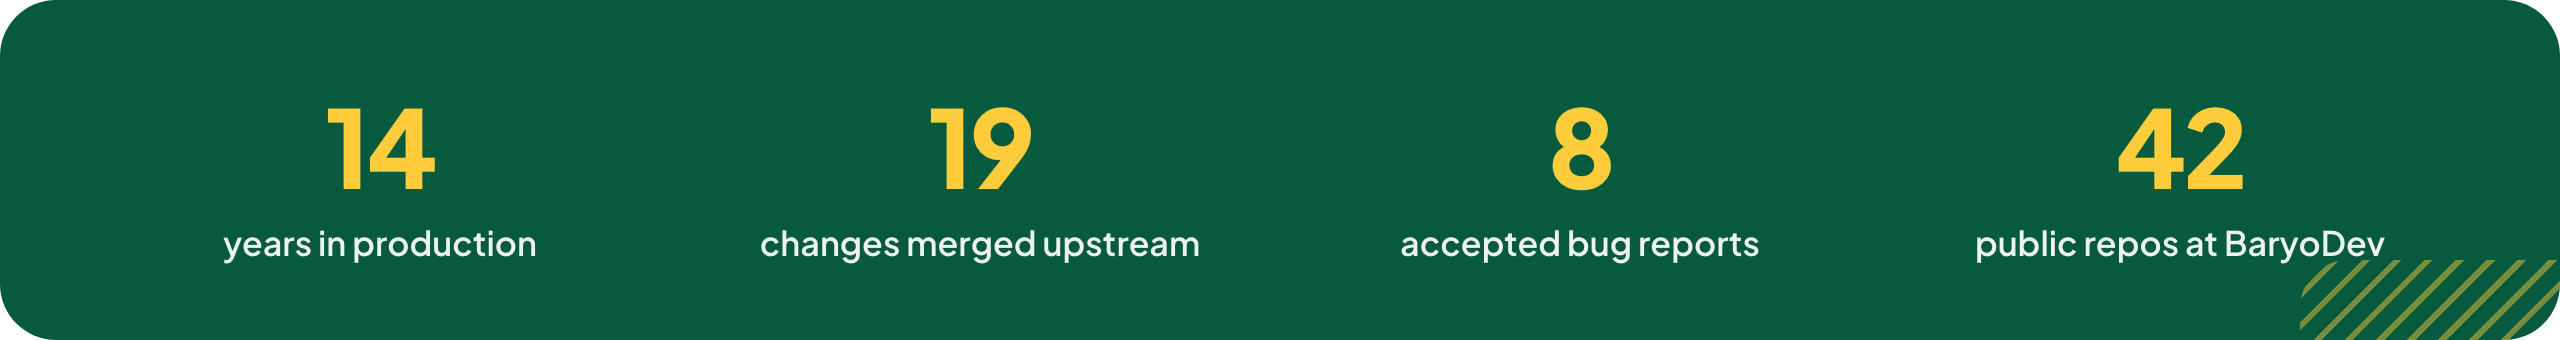
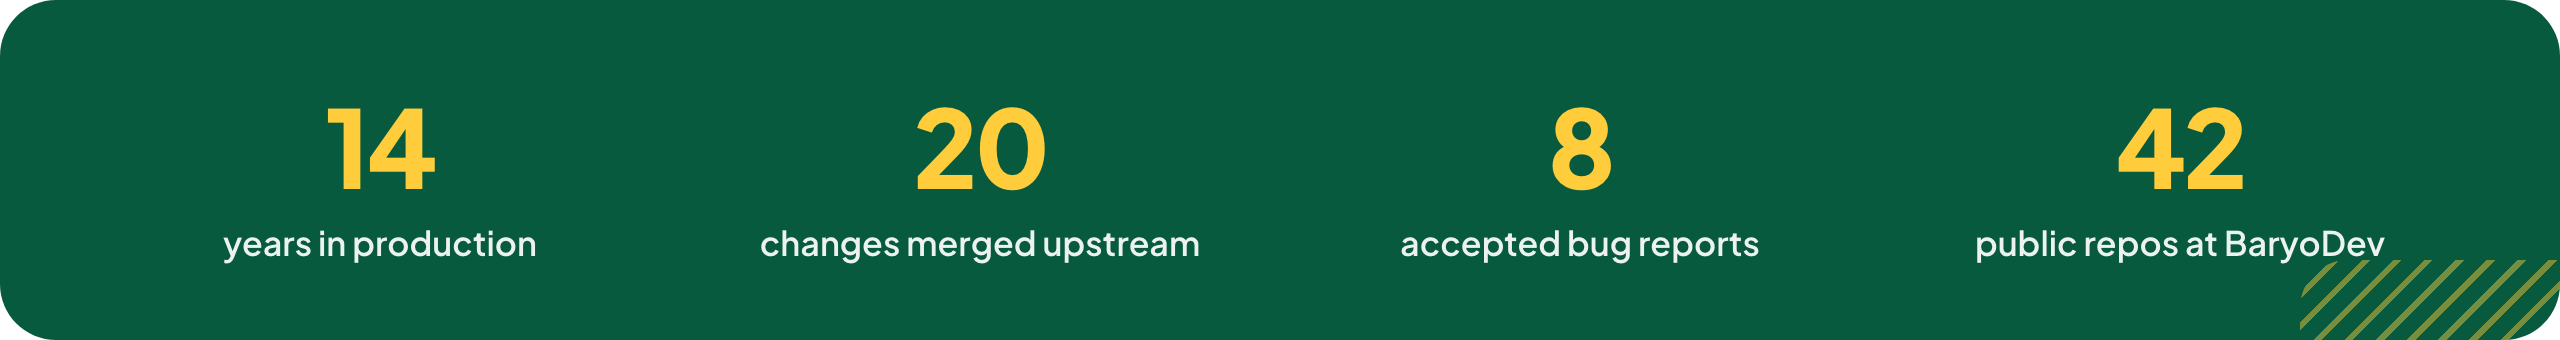
add testcontainers #1816, bump upstream count to 20

Changed region(s): [[0.3438, 0.3235, 0.4062, 0.5588]]

diff --git a/art/build.py b/art/build.py
@@ -52,7 +52,7 @@ SECTION = """
   </div>
 </div>"""
 
-STATS = [("14", "years in production"), ("19", "changes merged upstream"),
+STATS = [("14", "years in production"), ("20", "changes merged upstream"),
          ("8", "accepted bug reports"), ("42", "public repos at BaryoDev")]
 
 STATS_HTML = """

diff --git a/README.md b/README.md
@@ -21,7 +21,7 @@
   <a href="#stack">Stack</a>
 </sub></p>
 
-<img alt="14 years in production, 19 changes merged upstream, 8 accepted bug reports, 42 public repos at BaryoDev" src="assets/stats.png" width="100%">
+<img alt="14 years in production, 20 changes merged upstream, 8 accepted bug reports, 42 public repos at BaryoDev" src="assets/stats.png" width="100%">
 
 ---
 
@@ -32,7 +32,7 @@ In 30 seconds:
 - **I design platforms.** [barakoCMS](https://github.com/BaryoDev/barakoCMS) is a multi-tenant, metadata-driven data platform on .NET and PostgreSQL, with its console, renderer, client and deploy tool, all public and all running.
 - **I ship LLM and agent systems** that respect permissions and get checked by something other than a person's say-so.
 - **I audit web applications** against OWASP WSTG and ASVS and hand back a report ranked by what to fix first.
-- **Nineteen changes merged upstream** in Umbraco, Marten and Testcontainers, nearly all for a bug my own projects hit.
+- **Twenty changes merged upstream** in Umbraco, Marten and Testcontainers, nearly all for a bug my own projects hit.
 
 <a id="the-platform-i-design-and-run"></a>
 <img alt="The platform I design and run" src="assets/section-platform.png" width="100%">
@@ -86,16 +86,16 @@ Broken access control and IDOR (an id from the URL used to load or mutate anothe
 <a id="open-source-contributor"></a>
 <img alt="Open source contributor" src="assets/section-upstream.png" width="100%">
 
-<a href="https://github.com/search?q=author%3Aarnelirobles+type%3Apr+is%3Amerged+org%3Aumbraco+org%3Atestcontainers+org%3AJasperFx&type=pullrequests"><img alt="19 merged upstream" src="https://img.shields.io/badge/upstream-19%20merged-0b7a55?style=flat-square&logo=github"></a>
+<a href="https://github.com/search?q=author%3Aarnelirobles+type%3Apr+is%3Amerged+org%3Aumbraco+org%3Atestcontainers+org%3AJasperFx&type=pullrequests"><img alt="20 merged upstream" src="https://img.shields.io/badge/upstream-20%20merged-0b7a55?style=flat-square&logo=github"></a>
 <a href="https://github.com/search?q=author%3Aarnelirobles+type%3Aissue+org%3Aumbraco+org%3Atestcontainers+org%3AJasperFx&type=issues"><img alt="8 accepted bug reports" src="https://img.shields.io/badge/bug%20reports%20accepted-8-f08a24?style=flat-square&logo=github"></a>
 <a href="https://github.com/BaryoDev"><img alt="42 public repositories" src="https://img.shields.io/badge/%40BaryoDev-42%20public%20repos-c2461a?style=flat-square&logo=github"></a>
 
-**Nineteen merged changes and eight accepted bug reports** in libraries I run in production, across four repos totalling 13k stars. Most started from a bug I hit in my own projects rather than from browsing a tracker for something to fix. The badges are live searches, so they answer for themselves.
+**Twenty merged changes and eight accepted bug reports** in libraries I run in production, across four repos totalling 13k stars. Most started from a bug I hit in my own projects rather than from browsing a tracker for something to fix. The badges are live searches, so they answer for themselves.
 
 | Project | What was wrong |
 |---|---|
 | **[umbraco/Umbraco-CMS](https://github.com/umbraco/Umbraco-CMS)**<br><sub>★5.3k</sub> | Instances sharing a database failed each other's requests registering the same OpenIddict application. [#23599](https://github.com/umbraco/Umbraco-CMS/pull/23599), [#23727](https://github.com/umbraco/Umbraco-CMS/pull/23727), shipped in 17.7 and 18.2. A disabled or locked out user kept a valid back-office cookie, so they were issued fresh tokens and landed in an empty back office where every call returned 403 and there was no way to log out. [#23995](https://github.com/umbraco/Umbraco-CMS/pull/23995) signs them out instead, shipped in 17.8 and 18.3. On SQLite the Delivery API returned create and update dates with no UTC marker, so clients read them as local time. [#24514](https://github.com/umbraco/Umbraco-CMS/pull/24514). Saving rich text cleared the media path from every attribute of an image, not just `src`, so attributes like `data-absolute-url` came back empty. [#24515](https://github.com/umbraco/Umbraco-CMS/pull/24515). On a load-balanced site the security stamp check read a user from a stale isolated cache, so a server could accept a stamp another server had already changed. [#24516](https://github.com/umbraco/Umbraco-CMS/pull/24516) syncs the cache before that lookup. A site running its own OpenIddict endpoints had those requests skipped, because the request handler matched only Umbraco's hardcoded paths, and the only way out was to remove the handler and lose its protection. [#23968](https://github.com/umbraco/Umbraco-CMS/pull/23968) adds `OpenIddictAdditionalPathsOptions`, so packages and sites can add their own paths without dropping Umbraco's, merged for 17.10. |
-| **[testcontainers/testcontainers-dotnet](https://github.com/testcontainers/testcontainers-dotnet)**<br><sub>★4.4k</sub> | MongoDB replica-set init was not idempotent, so a reused container hung against a one-hour timeout. [#1731](https://github.com/testcontainers/testcontainers-dotnet/pull/1731), [#1735](https://github.com/testcontainers/testcontainers-dotnet/pull/1735). A reused Couchbase container then stalled on the first step of configuring a cluster that was already configured. [#1736](https://github.com/testcontainers/testcontainers-dotnet/pull/1736). Confluent Platform 8.x images exited on startup because the module left a trailing comma in the advertised listeners, which Kafka 4 rejects. [#1772](https://github.com/testcontainers/testcontainers-dotnet/pull/1772). With that fixed, they still defaulted to ZooKeeper, which 8.x removed. [#1775](https://github.com/testcontainers/testcontainers-dotnet/pull/1775). The docs never said how builder calls combine, so setting your own startup callback on a module silently replaced its provisioning, and MongoDB never initiated its replica set. [#1770](https://github.com/testcontainers/testcontainers-dotnet/pull/1770) documents the rules on a page of their own |
+| **[testcontainers/testcontainers-dotnet](https://github.com/testcontainers/testcontainers-dotnet)**<br><sub>★4.4k</sub> | MongoDB replica-set init was not idempotent, so a reused container hung against a one-hour timeout. [#1731](https://github.com/testcontainers/testcontainers-dotnet/pull/1731), [#1735](https://github.com/testcontainers/testcontainers-dotnet/pull/1735). A reused Couchbase container then stalled on the first step of configuring a cluster that was already configured. [#1736](https://github.com/testcontainers/testcontainers-dotnet/pull/1736). Confluent Platform 8.x images exited on startup because the module left a trailing comma in the advertised listeners, which Kafka 4 rejects. [#1772](https://github.com/testcontainers/testcontainers-dotnet/pull/1772). With that fixed, they still defaulted to ZooKeeper, which 8.x removed. [#1775](https://github.com/testcontainers/testcontainers-dotnet/pull/1775). The docs never said how builder calls combine, so setting your own startup callback on a module silently replaced its provisioning, and MongoDB never initiated its replica set. [#1770](https://github.com/testcontainers/testcontainers-dotnet/pull/1770) documents the rules on a page of their own. The Elasticsearch module sets `ingest.geoip.downloader.enabled`, which some custom images refuse to start with, and the empty-value workaround stops working after Elasticsearch 8.2. [#1816](https://github.com/testcontainers/testcontainers-dotnet/pull/1816) adds a `WithEnvironment` overload that takes an `OverwriteDictionary`, so a builder can replace the variables a module set instead of only adding to them |
 | **[JasperFx/marten](https://github.com/JasperFx/marten)**<br><sub>★3.5k</sub> | `HardDeleteWhere` could not remove already soft-deleted rows, and returned cleanly either way. [#5215](https://github.com/JasperFx/marten/pull/5215), [#5202](https://github.com/JasperFx/marten/pull/5202), [#5240](https://github.com/JasperFx/marten/pull/5240). The parameterised `MatchesJsonPath` overload threw on every call, so no one could have been using it. [#5289](https://github.com/JasperFx/marten/pull/5289). The pgvector docs still described a recall cap the library had stopped applying, and the caveat that replaced it was wrong for hybrid search. [#5467](https://github.com/JasperFx/marten/pull/5467) |
 | **[JasperFx/jasperfx](https://github.com/JasperFx/jasperfx)**<br><sub>core library</sub> | The event loader claimed a ceiling it had never scanned, so a fully skipped batch could advance past events and lose them permanently. Reported on Marten, then fixed at the source. [#670](https://github.com/JasperFx/jasperfx/pull/670) |
 
